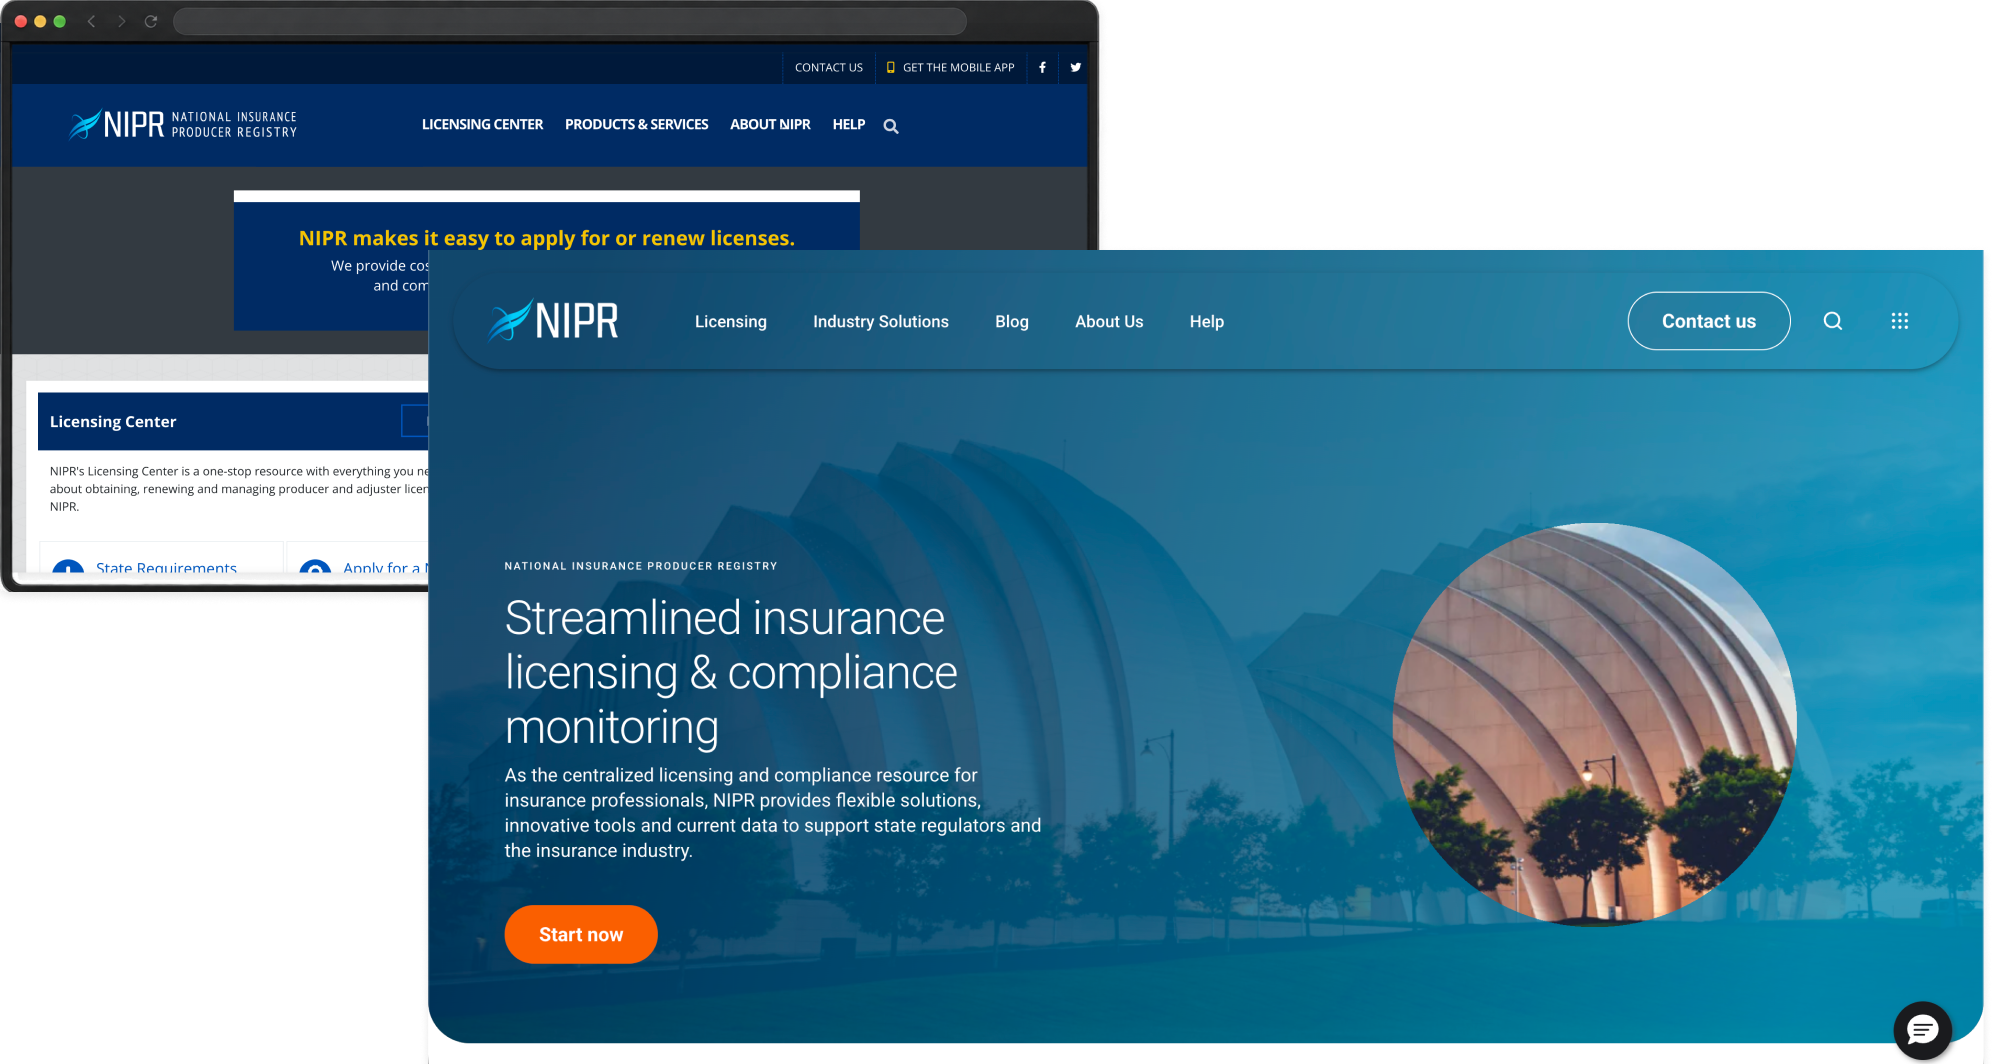
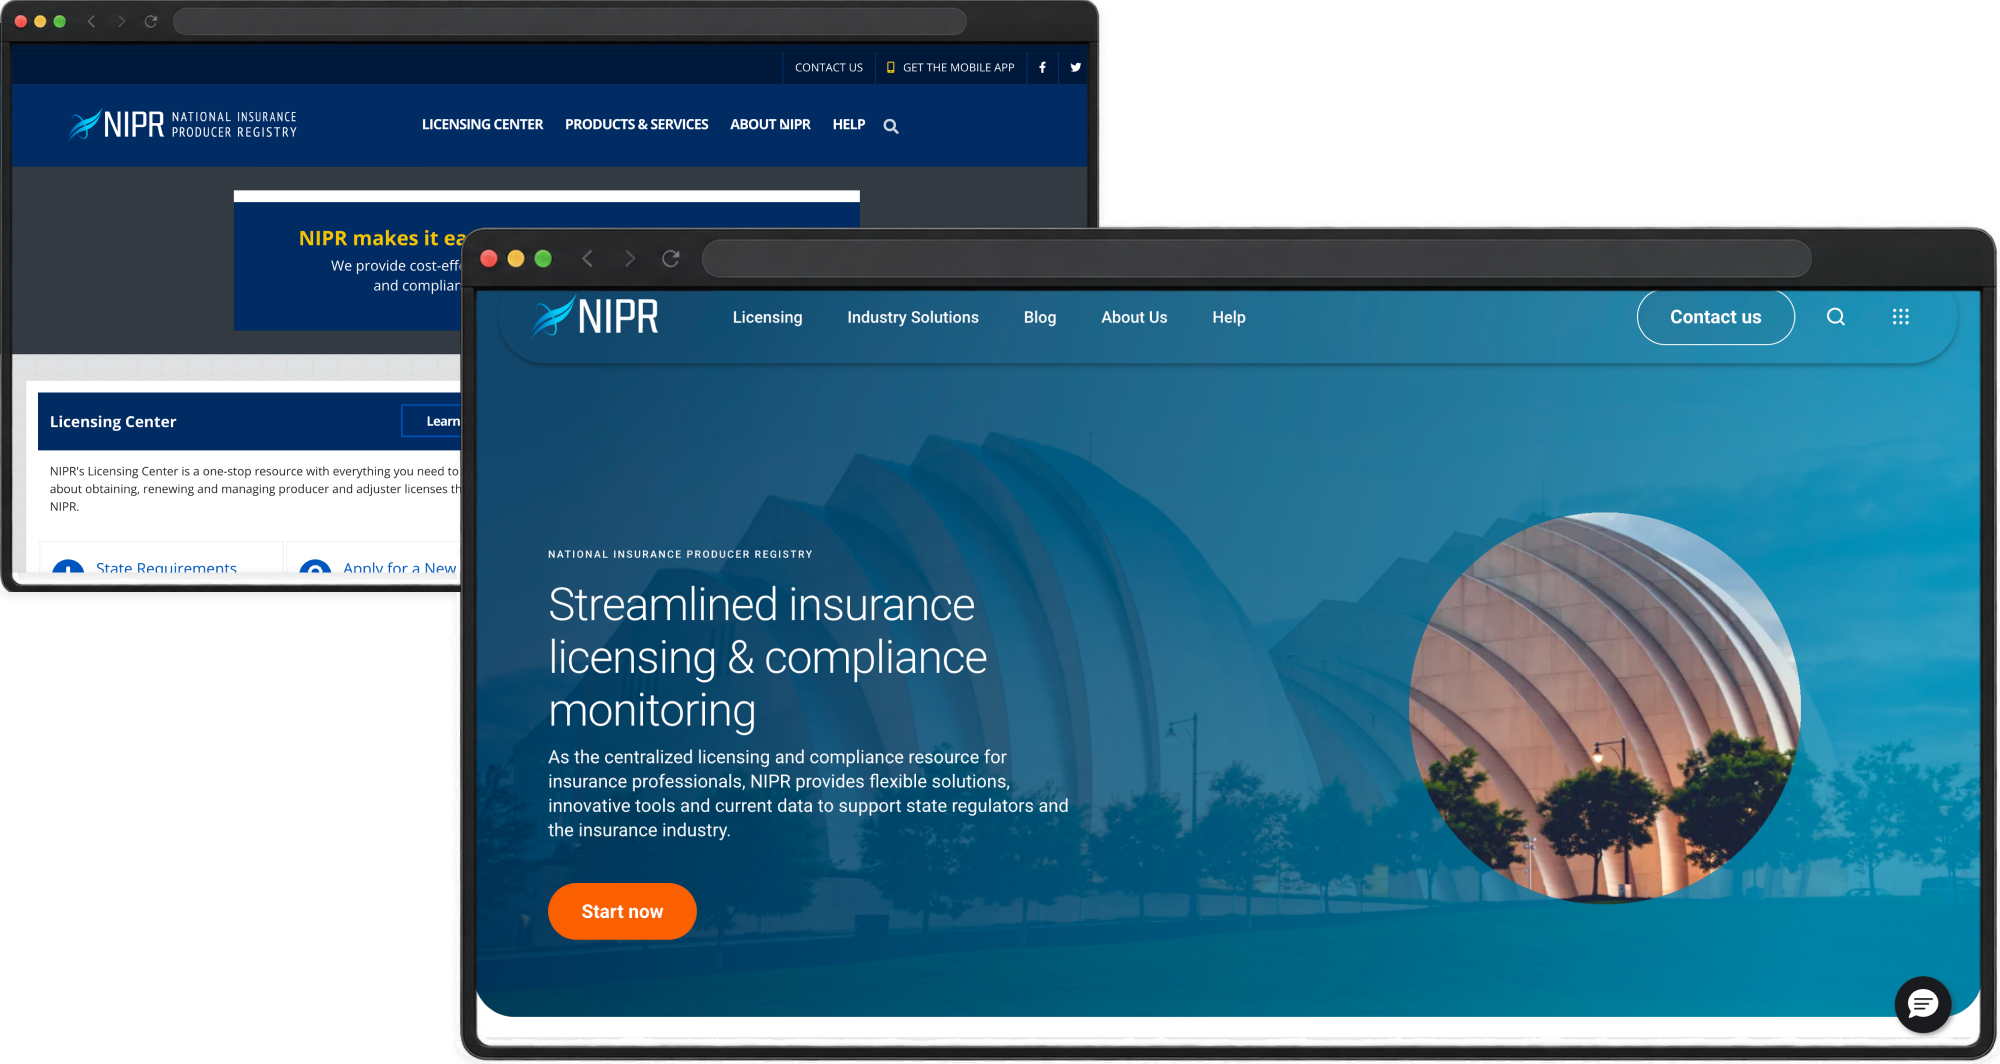
Take the adjusted NIPR lead and phone images
The phone collage now carries six different screens rather than the same one
six times, so its alt text names them: licensing and compliance monitoring,
applying for a licence, managing or renewing one, industry solutions, reports
and alerts, and about NIPR. The lead keeps the old site behind the new one.

Both under new filenames, the lead flattened to JPEG on white and the phones
kept as WebP with their alpha for the mint band. The superseded files are
removed.

diff --git a/nipr.html b/nipr.html
@@ -60,7 +60,7 @@
             <section class="ed-mediasec ed-mediasec--lead">
         <div class="ed-wide">
           <figure class="ed-media reveal">
-            <img src="brand-assets/Pics/NIPR-lead-v3.jpg" alt="The old NIPR site behind the redesigned one, side by side" loading="lazy" />
+            <img src="brand-assets/Pics/NIPR-lead-v4.jpg" alt="The old NIPR site behind the redesigned one, side by side" loading="lazy" />
           </figure>
         </div>
       </section>
@@ -187,7 +187,7 @@
       <section class="ed-mediasec ed-invert ed-invert--mint ed-mediasec--bleed">
         <div class="ed-wide">
           <figure class="ed-media reveal">
-            <img src="brand-assets/Pics/NIPR-phones-v3.webp" alt="The same experience on phones, from managing a licence to adding a line of authority" loading="lazy" />
+            <img src="brand-assets/Pics/NIPR-phones-v4.webp" alt="Six phone screens: licensing and compliance monitoring, applying for a licence, managing or renewing one, industry solutions, reports and alerts, and about NIPR" loading="lazy" />
           </figure>
         </div>
       </section>
